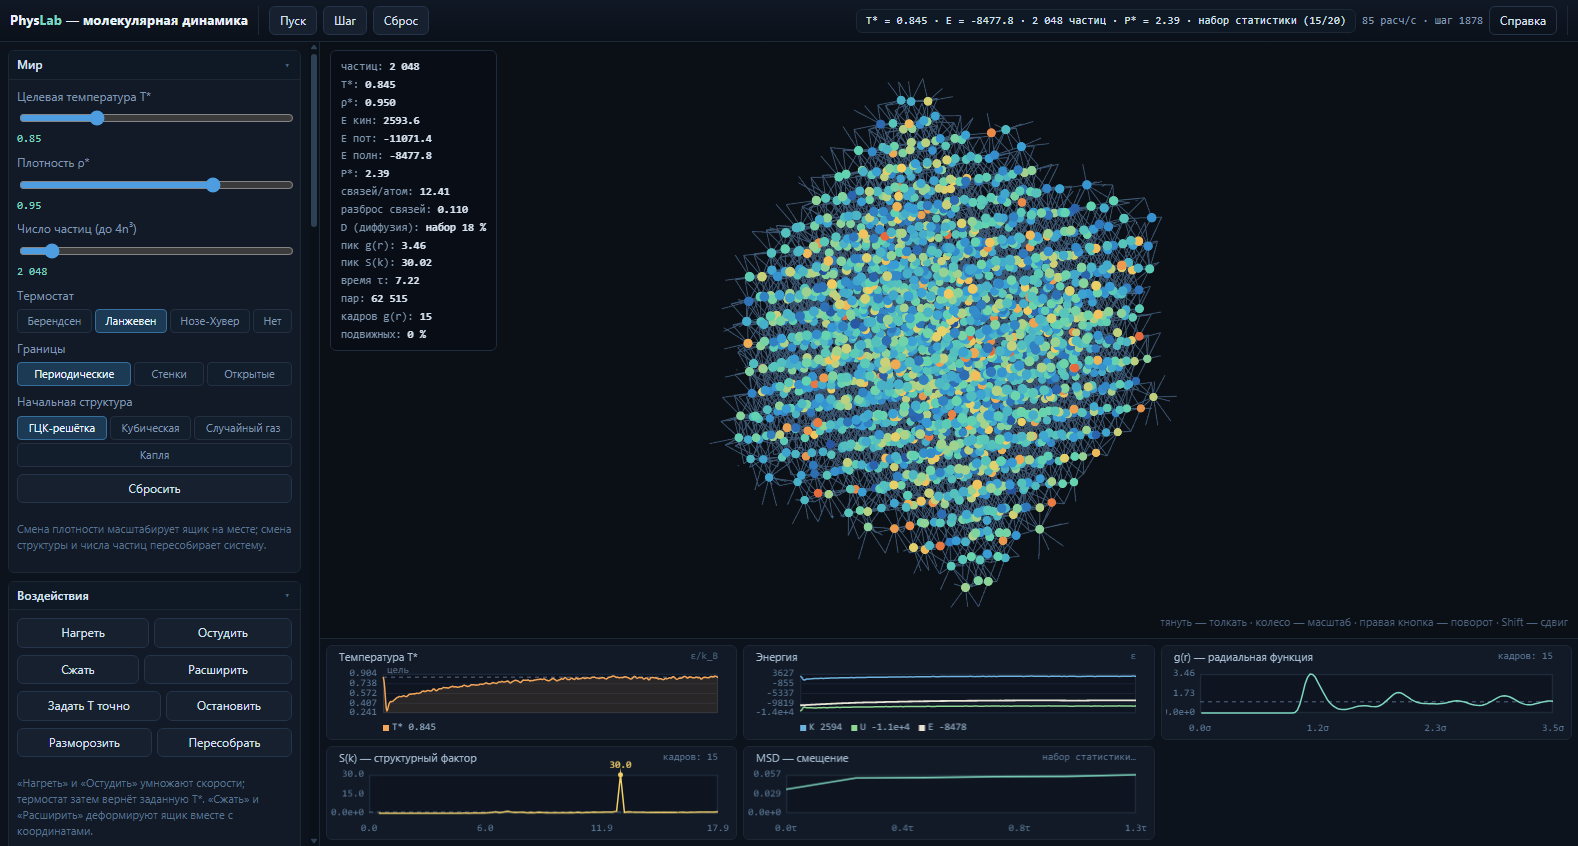
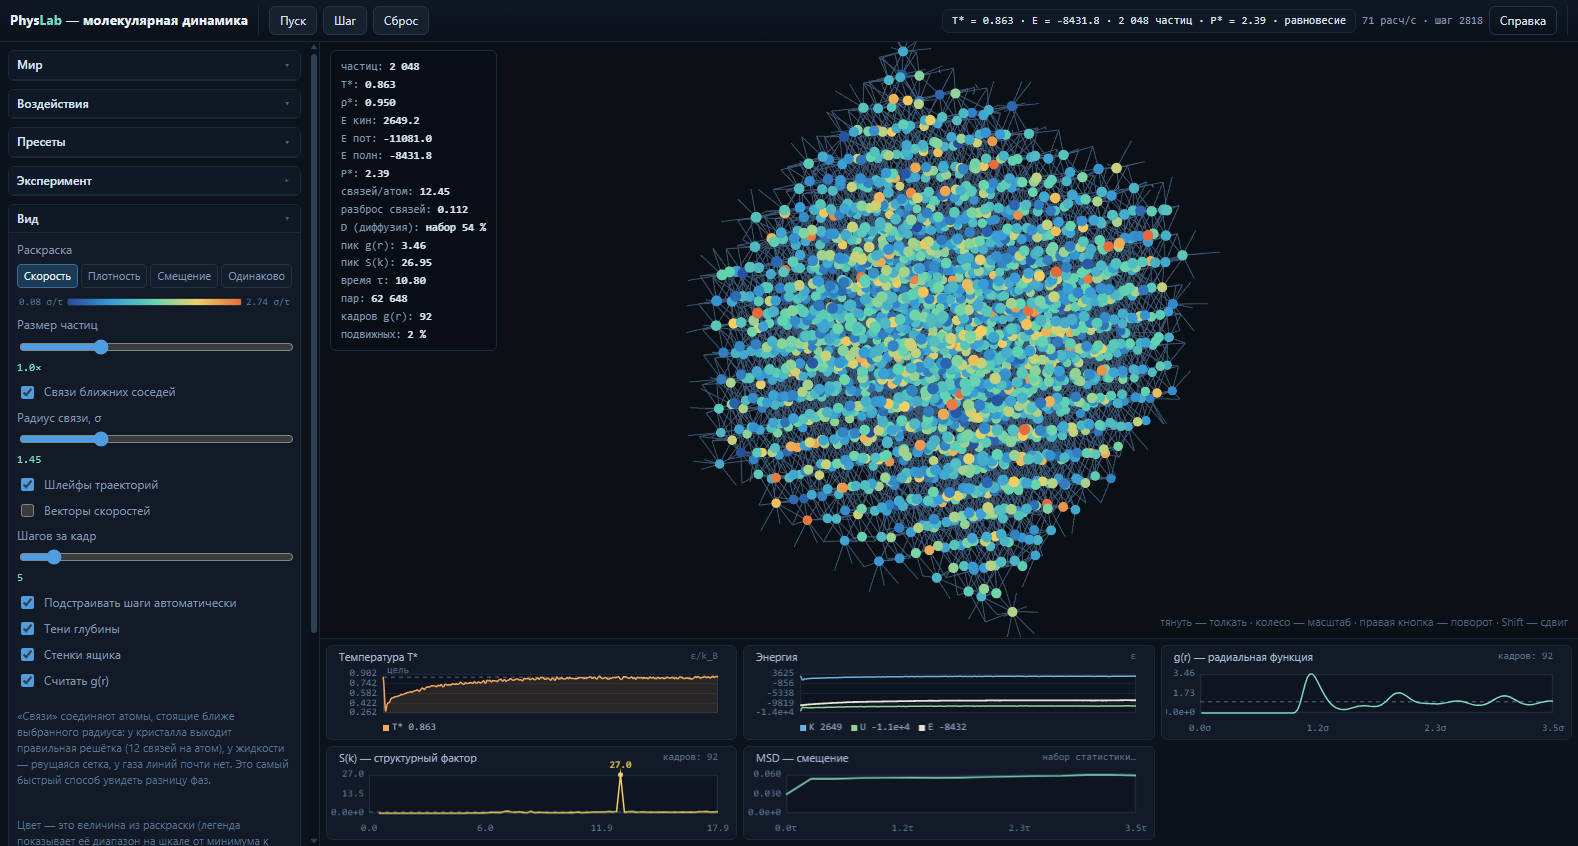
Витринный кадр для README: показать структуру, а не россыпь кружков
Просьба была сделать «очень красивый и показательный» скрин. Прежний кадр
показывал только интерфейс, и по нему нельзя было понять, чем проект
отличается от десятка других демок молекулярной динамики.

Главный кадр (docs/images/interface.png) поставлен намеренно:

* пресет ПЛАВЛЕНИЯ, а не кристалла: видно одновременно ближний порядок
  (решётка держится, у атомов по ~12 связей) и его разрушение — самое
  интересное состояние системы;
* включены связи ближних соседей, выключены векторы скоростей: векторы на
  статичном кадре выглядят случайными штрихами и забивают структуру;
* статистика накоплена заранее, чтобы S(k) и MSD были осмысленными, а не
  пустыми: пустой график в README хуже, чем его отсутствие;
* панели «Вид» раскрыта, остальные свёрнуты: видно названия переключателей,
  но сцена не задавлена интерфейсом.

Добавлен второй кадр (docs/images/lattice.png) — кристалл крупным планом,
чтобы решётку было видно в деталях.

НАЙДЕН И ИСПРАВЛЕН ДЕФЕКТ, который не поймала ни одна проверка:

  Витринный кадр выходил ПУСТЫМ, а showcase сообщал «провалов 0». Причина:
  вызывался app.renderer.width, но у SceneRenderer такого свойства нет —
  размеры лежат глубже (renderer.app.renderer). В camera.fit уходили
  undefined, масштаб становился NaN, и сцена исчезала. Проверка сводилась к
  existsSync(файл) и не могла этого заметить: файл создавался, просто пустой.

  Теперь размеры берутся у самого канваса, и добавлены проверки «главный
[…]

diff --git a/README.md b/README.md
@@ -37,17 +37,37 @@
 они **возникают** из уравнений движения: частицы сами собираются в кристалл,
 плавятся, испаряются, образуют жидкость и капли.
 
-![Плавление кристалла: T* = 0.87, решётка «поплыла»](docs/images/melting.png)
+![Phys Lab: кристалл плавится, связи ближних соседей, графики T, E, g(r), S(k), MSD](docs/images/interface.png)
 
-> **Что на кадре.** ГЦК-кристалл (2048 частиц, ρ* = 0.95) нагрет до T* = 0.87.
-> Дальний порядок уже потерян — частицы ушли с узлов, — но ближний сохранён:
-> график g(r) справа показывает три размытых пика на расстояниях, кратных σ.
-> Слева внизу — температура (жёлтая линия идёт к заданной, пунктир), в центре —
-> энергии (K, U, E). Цвет частицы — её скорость: синие медленные, красные быстрые.
+> **Что на кадре.** То же плавление, но с включённым слоем **связей ближних
+> соседей** — и именно он превращает «россыпь кружков» в структуру. Видно, что
+> ближний порядок ещё держится (атомы связаны, у каждого ~12 соседей), но
+> решётка уже поехала. Цвет частицы — её скорость: синие медленные, красные
+> быстрые.
+>
+> Пять графиков внизу считают то, что видно глазами:
+> **T*** — выход на заданную температуру; **энергии** K, U, E;
+> **g(r)** — радиальная функция, три размытых пика вместо резких;
+> **S(k)** — структурный фактор с пиком ≈ 28 (у идеального кристалла он ≈ 90,
+> у жидкости ≈ 2); **MSD** — среднеквадратичное смещение, по наклону которого
+> считается коэффициент диффузии D.
 >
 > **Кадр воспроизводится командой** `npm.cmd run showcase` — она собирает все
-> витринные кадры заново и падает с ненулевым кодом, если сцена оказалась пустой.
-> Поэтому картинки в README не нужно обновлять вручную.
+> витринные кадры заново и падает с ненулевым кодом, если сцена оказалась
+> пустой. Поэтому картинки в README не нужно обновлять вручную.
+
+### Как читается структура
+
+| Кристалл (T* = 0.15): правильная решётка | Плавление: решётка «поплыла» |
+|---|---|
+| ![Кристалл крупным планом](docs/images/lattice.png) | ![Плавление](docs/images/melting.png) |
+
+> **Связи — это не украшение, а измерение.** Каждая линия соединяет пару
+> атомов ближе 1.45σ. У ГЦК-кристалла таких пар ровно 12 на атом — это
+> координационное число, определённая величина, а не «примерно». У жидкости
+> связи постоянно рвутся (в среднем 9.8), у газа линий почти нет. Разброс
+> длин связей (0.05 у кристалла против 0.15 у жидкости) показывает, насколько
+> решётка искажена.
 
 ### Состояния системы
 
@@ -276,10 +296,25 @@ src/
 
 * Это **замеры в Node на одном потоке**, без отрисовки. В браузере добавляется
   работа WebGL, но она идёт параллельно с расчётом.
-* Рост стоимости **линейный**: на 2 048 частиц шаг 1.5 мс, на 20 000 — 14 мс,
-  то есть ×9.3 при ×9.6 частиц. Квадратичный рост дал бы ×100.
+* Рост стоимости **линейный**: на 2 048 частиц шаг 1.1 мс, на 20 000 — 12.8 мс,
+  то есть ×11 при ×9.6 частиц. Квадратичный рост дал бы ×100.
 * Достижимый предел в браузере на одном потоке — примерно 50 000 частиц при
   dt = 0.004. Дальше нужен Web Worker или WebGPU (см. `ROADMAP.md`).
+
+**Что из чего состоит.** Замерено в браузере (N = 2 048, ρ* = 0.7):
+
+| Статья | Время |
+|---|---|
+| Пять шагов физики | 16.0 мс |
+| Отрисовка кадра | 5.2 мс |
+| — из них слой связей | 2.6 мс |
+| — частицы и графики | 2.6 мс |
+
+Отсюда видно, почему вынос физики в поток дал бы больше, чем оптимизация
+рендера: **физика дороже отрисовки втрое**, а слой связей — самая дешёвая
+часть картинки из возможных улучшений. Замер сделан скриптом
+`scripts/dev-profile.mjs`, а не на глаз; в headless-режиме абсолютные
+значения завышены софтверным растеризатором, но пропорция показательна.
 
 ---
 
@@ -317,6 +352,15 @@ src/
 Кристалл и жидкость различаются по D **в десятки тысяч раз** — это и есть
 количественный ответ на вопрос «атомы стоят или двигаются», который по
 картинке даёт только качественное впечатление.
+
+> **Окно подгонки MSD выбирается по данным.** Раньше оно было жёстким
+> (20…80 % максимального лага) — эвристика, которая молча врёт, если
+> баллистический участок длиннее 20 %. Замерено на газе при ρ* = 0.06:
+> локальный наклон `d ln MSD / d ln t` равен 1.5–1.55 на первых лагах вместо
+> 1, и жёсткое окно захватывало эту часть. Сдвиг начала окна с 1.75τ на 3.25τ
+> изменил D с 1.49 на 1.29 — разница между «эффективным» и истинным
+> коэффициентом. Теперь `diffusion()` ищет самый длинный отрезок, где
+> логарифмический наклон близок к 1.
 
 > **Важно про D = 0.** Ноль у настоящего кристалла и ноль до набора
 > статистики — разные вещи. Окно наблюдения MSD заполняется за тысячи шагов,
